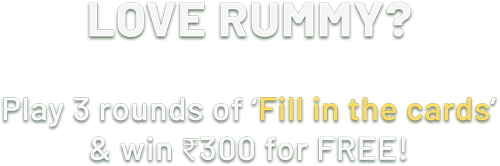
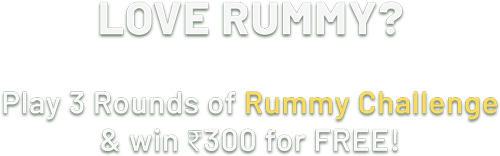
Add files via upload
Uodated changes for text and cards

diff --git a/index.html b/index.html
@@ -115,19 +115,19 @@
                 <section class="container" id="card22">
                     <div class="carddef" >
                       <div class="front"><img src="assets/cardfront.png" alt=""></div>
-                      <div class="back"><img src="assets/screen1/card8.png" alt=""></div>
+                      <div class="back"><img src="assets/screen2/c9d.png" alt=""></div>
                     </div>
                 </section>
                 <section class="container" id="card23">
                     <div class="carddef">
                       <div class="front"><img src="assets/cardfront.png" alt=""></div>
-                      <div class="back"><img src="assets/screen1/card7d.png" alt=""></div>
+                      <div class="back"><img src="assets/screen2/cQclub.png" alt=""></div>
                     </div>
                 </section>
                 <section class="container" id="card24">
                     <div class="carddef">
                       <div class="front"><img src="assets/cardfront.png" alt=""></div>
-                      <div class="back"><img src="assets/screen1/card7.png" alt=""></div>
+                      <div class="back"><img src="assets/screen2/cKdiamond.png" alt=""></div>
                     </div>
                 </section>
                 
@@ -224,7 +224,7 @@
                     <img src="assets/screen3/cjd.png" alt="">
                 </div>
                 <div id="topc37" class="topc">
-                    <img src="assets/screen3/cjs.png" alt="">
+                    <img src="assets/screen3/cjc.png" alt="">
                 </div>
                 <div id="topc38" class="topc">
                     <img src="assets/screen1/cardq.png" alt="">
@@ -242,7 +242,7 @@
                     <img src="assets/screen3/congratsmsg.png" alt="">
                 </div>
                  <div id="card3container">
-                    <img src="assets/screen1/cardfront.png" alt="">
+                    <img src="assets/arrow.png" alt="">
                 </div>
                 <div id="confetti3">
                     <img src="assets/screen1/confetti.png" alt="">

diff --git a/style.js b/style.js
@@ -78,7 +78,7 @@ $(document).ready(function(){
             $(this).hide();
             $("#game-area #dropperarearound4").show();
             $("#game-area #cursor2").animate({left:"260px"},50)
-            $("#game-area #topc33 img").attr("src","./assets/screen3/c3h.png");
+            $("#game-area #topc33 img").attr("src","./assets/screen3/c3s.png");
             $("#game-area #card31").hide();
            
 

diff --git a/style.css b/style.css
@@ -551,3 +551,17 @@ html, body, div, span, applet, object, iframe, h1, h2, h3, h4, h5, h6, p, blockq
 #game-area #topc38{
     z-index: 6;
 }
+
+#game-area #card3container{
+    animation: handanim1 2s  infinite;
+    width: 43px;
+    margin: 0 auto;
+    top: 185px;
+    left: 140px;
+}
+@keyframes handanim1{
+    0%   {top: 185px;}
+    50% { top: 209px;}
+    100%  {top: 185px;}
+    
+}

diff --git a/test.html b/test.html
@@ -1,0 +1,11 @@
+<!DOCTYPE html>
+<html lang="en">
+<head>
+    <meta charset="UTF-8">
+    <meta name="viewport" content="width=device-width, initial-scale=1.0">
+    <title>Document</title>
+</head>
+<body>
+    <iframe src="index.html" frameborder="0" width="320" height="324"></iframe>
+</body>
+</html>
